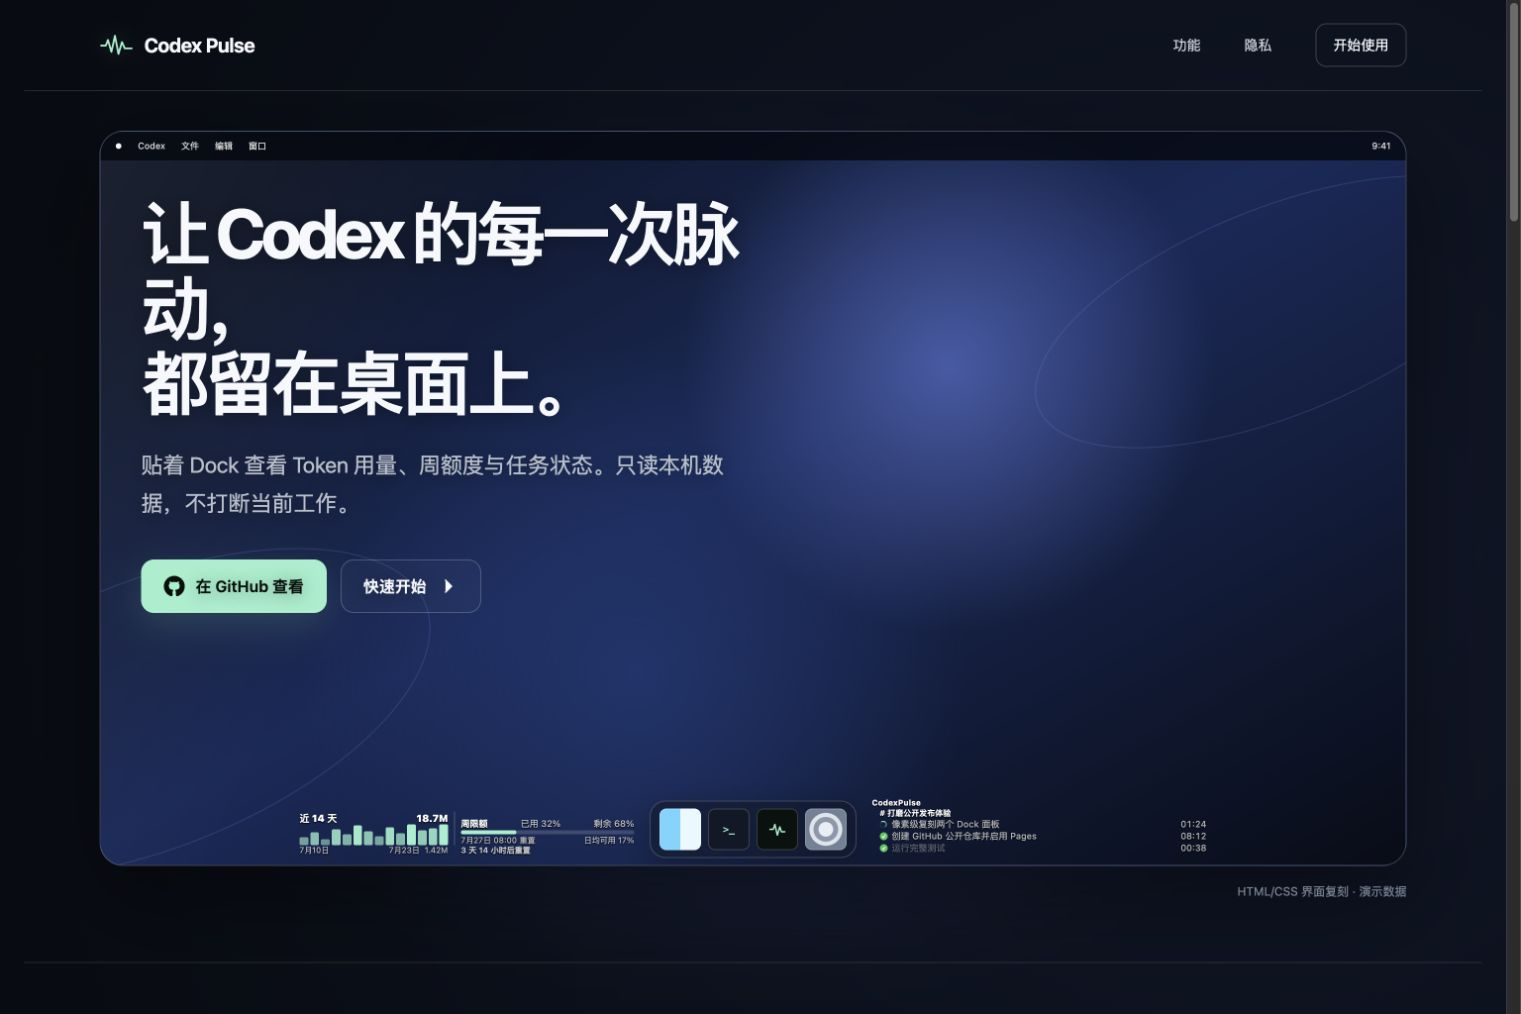
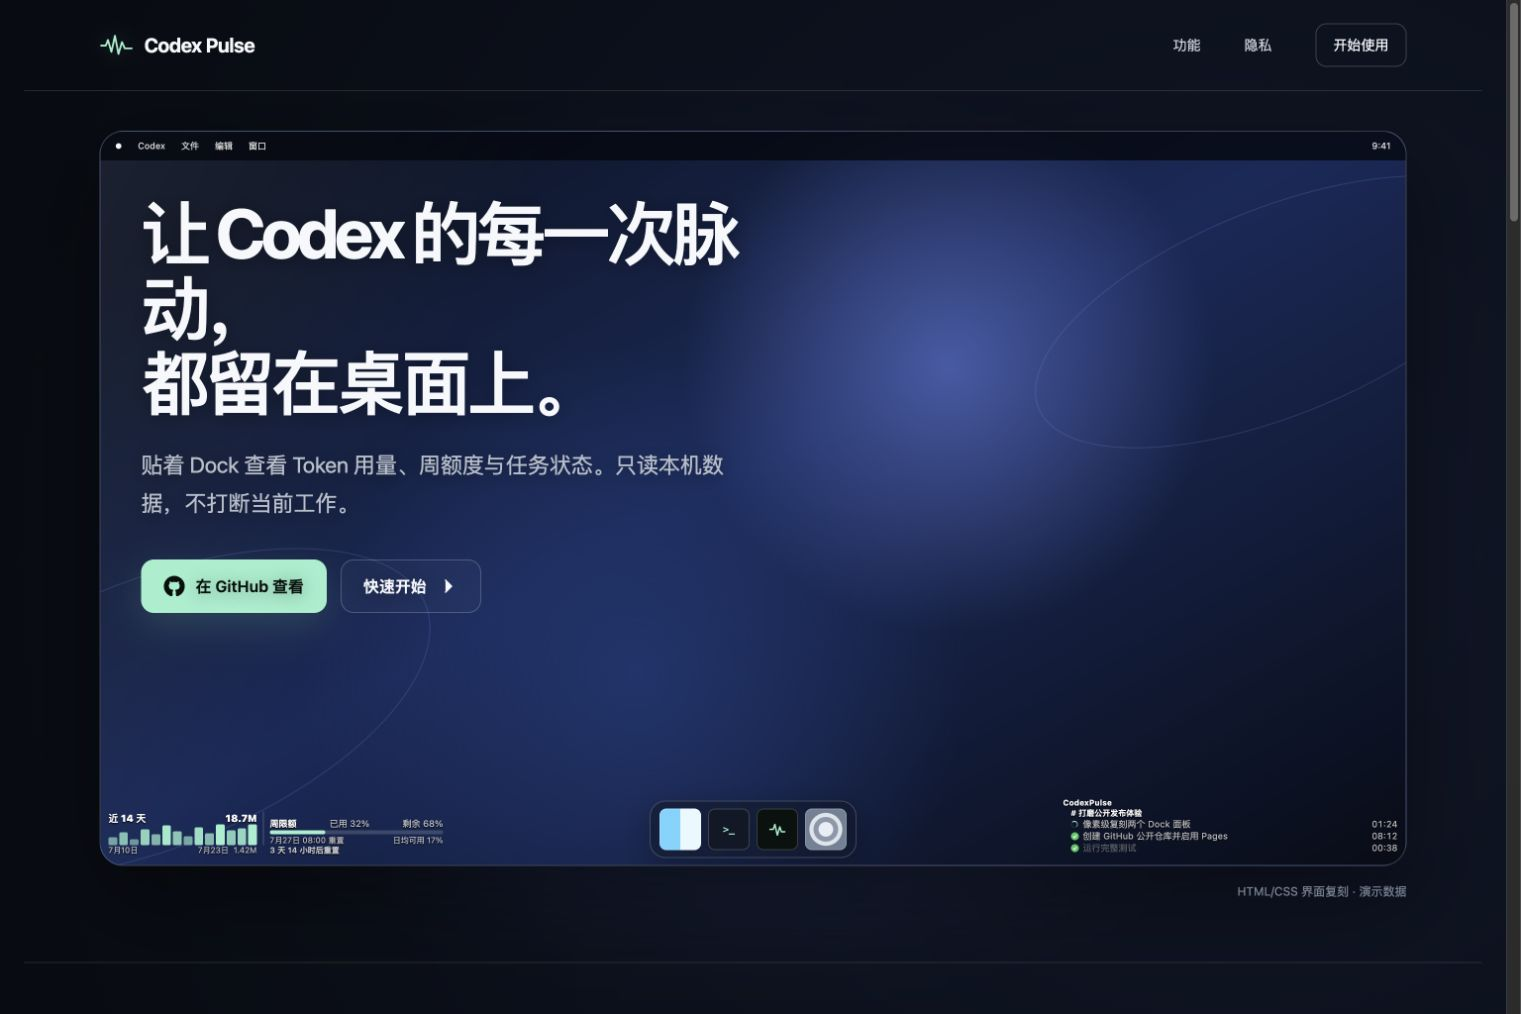
fix(site): anchor panels to desktop edges

diff --git a/docs/styles.css b/docs/styles.css
@@ -316,7 +316,8 @@ a:focus-visible {
 }
 
 .usage-panel {
-  right: calc(50% + 114px);
+  right: auto;
+  left: 2px;
   display: flex;
   gap: 6px;
   align-items: end;
@@ -423,7 +424,8 @@ a:focus-visible {
 }
 
 .task-panel {
-  left: calc(50% + 114px);
+  right: 2px;
+  left: auto;
   min-height: 61px;
   padding: 0 6px 4px;
 }